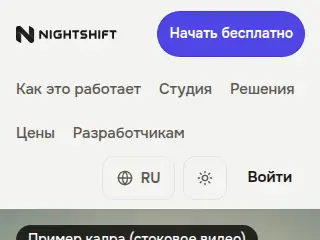
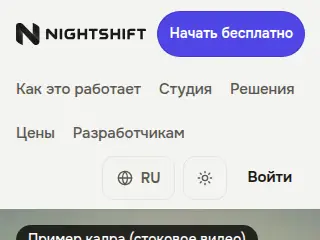
Public header: wordmark sizes without the menu button's room; drop the dead sticky-bar rule
- The phone wordmark formulas reserved 44px (plus a gap) for the removed menu button; they now
  leave that room to the lockup, with Start free still on the wordmark's row (the tool checks it).
- Removed html[data-bar="on"] .st-header-tools > .st-key under 1023px (the header is not
  sticky there any more) and fixed the stale comments (menu button, "pricing link is in the menu").

Claude-Session: https://claude.ai/code/session_01U9oHiSfJHWxDDyJSd8fLSk

Changed region(s): [[0.0312, 0.0875, 0.4688, 0.2042]]

diff --git a/command-center/components/site/site.css b/command-center/components/site/site.css
@@ -226,7 +226,7 @@ html:is([lang="ru"], [lang="uz"]) .st-h1 { font-size: clamp(32px, 4.6vw, 52px); 
 .st-key:focus-visible { box-shadow: 0 0 0 2px var(--st-focus-gap); }
 .st-key svg { width: 18px; height: 18px; flex-shrink: 0; }
 .st-key[data-size="sm"] { min-height: 44px; padding: 0 16px; font-size: 16px; }
-/* A phone's header holds the wordmark, the one button and the menu on one line
+/* A phone's header holds the wordmark and the one button on one line
    even when the button's words are long (Russian: "Начать бесплатно" at 360px);
    the lockup itself steps down below 380px (further down in this file). */
 @media (max-width: 420px) {
@@ -304,8 +304,8 @@ html:is([lang="ru"], [lang="uz"]) .st-h1 { font-size: clamp(32px, 4.6vw, 52px); 
 /* The first row is the bar's height whether or not a second row follows. */
 .st-header-row > .st-brand { min-height: 64px; }
 /* The lockup is wider than the old tile and condensed text, so on a phone it takes what the
-   header leaves it. The limit is Russian's call to action ("Начать бесплатно") and the menu
-   button, which set the room beside the lockup: --wm-h is the width left over divided by the
+   header leaves it. The limit is Russian's call to action ("Начать бесплатно"), which sets the
+   room beside the lockup: --wm-h is the width left over divided by the
    lockup's 5.91 aspect, in a few ranges because the call to action's size and the header's gaps
    step at 420, 400, 380 and 360px. From 485px wide the full 36px fits in every language. From
    1024 to 1279px the nav and tools leave the lockup its old 148px (25px high). */
@@ -313,19 +313,19 @@ html:is([lang="ru"], [lang="uz"]) .st-h1 { font-size: clamp(32px, 4.6vw, 52px); 
   .st-brand { --wm-h: 25px; }
 }
 @media (max-width: 484px) {
-  .st-brand { --wm-h: clamp(17px, calc((100vw - 272px) / 5.91), 36px); }
+  .st-brand { --wm-h: clamp(17px, calc((100vw - 222px) / 5.91), 36px); }
 }
 @media (max-width: 420px) {
-  .st-brand { --wm-h: clamp(17px, calc((100vw - 254px) / 5.91), 36px); }
+  .st-brand { --wm-h: clamp(17px, calc((100vw - 204px) / 5.91), 36px); }
 }
 @media (max-width: 399px) {
-  .st-brand { --wm-h: clamp(17px, calc((100vw - 246px) / 5.91), 36px); }
+  .st-brand { --wm-h: clamp(17px, calc((100vw - 196px) / 5.91), 36px); }
 }
 @media (max-width: 379px) {
-  .st-brand { --wm-h: clamp(17px, calc((100vw - 242px) / 5.91), 36px); }
+  .st-brand { --wm-h: clamp(17px, calc((100vw - 192px) / 5.91), 36px); }
 }
 @media (max-width: 359px) {
-  .st-brand { --wm-h: clamp(17px, calc((100vw - 240px) / 5.91), 36px); }
+  .st-brand { --wm-h: clamp(17px, calc((100vw - 190px) / 5.91), 36px); }
 }
 @media (max-width: 379px) {
   .st-header-row { gap: 8px; }

diff --git a/command-center/components/site/site-next.css b/command-center/components/site/site-next.css
@@ -1019,7 +1019,7 @@ html:is([lang="ru"], [lang="uz"]) .nx-lit .st-hero .st-h1-page { font-size: clam
   html[data-motion="paused"] .nx-chat .nx-dot, html[data-motion="paused"] .nx-chat .nx-chat-key { animation: none !important; }
 }
 .nx-typed { display: inline; }
-/* A phone's first screen: the headline, the button and the whole of the chat card's picture. The pricing link is in the menu and in the price block. */
+/* A phone's first screen: the headline, the button and the whole of the chat card's picture. The pricing link is in the header's links and in the price block. */
 @media (max-width: 639px) {
   .nx-hero-copy .nx-actions .nx-link { display: none; }
   .nx-hero-copy .nx-actions { margin-top: 18px; }
@@ -1031,9 +1031,8 @@ html:is([lang="ru"], [lang="uz"]) .nx-lit .st-hero .st-h1-page { font-size: clam
 /* Edge fades say there is more: the right one until the end, the left one once scrolled. A chevron in the right fade is the hint to swipe; it goes with the first scroll. */
 @media (prefers-reduced-motion: no-preference) {
 }
-/* One Start free at a time: the sticky bar is for phones and tablets, and while it shows the header's button steps aside (hidden, not removed: removing it moved the header's tools and counted as a layout shift every time the bar came and went). */
+/* One Start free at a time: the sticky bar is for phones and tablets, where the header is not sticky. */
 @media (min-width: 1024px) { .nx-bar { display: none; } }
-@media (max-width: 1023px) { html[data-bar="on"] .st-header-tools > .st-key { visibility: hidden; } }
 /* The plan cards fill their rows: each card's lines spread over its height, and the picture card's picture takes what is left. */
 @media (min-width: 860px) {
   .nx-try-card { display: flex; flex-direction: column; }

diff --git a/command-center/tests/site-engage-5.test.tsx b/command-center/tests/site-engage-5.test.tsx
@@ -317,13 +317,13 @@ describe("the capability wall (round 8): eight stock photographs, one per tool",
 });
 
 describe("one Start free at a time (round 5)", () => {
-  it("tells the page while the sticky bar is up, so the header's button steps aside on a phone, and the bar is not drawn from 1024 px", () => {
+  it("tells the page while the sticky bar is up, and the bar is not drawn from 1024 px (the header is not sticky below it, so its button no longer steps aside)", () => {
     const { see } = env();
     document.body.innerHTML = '<div class="nx-hero"><div class="nx-actions"></div></div>';
     render(<StickyCta label="l" text="t" cta="c" dismiss="d" />);
     expect(document.documentElement.getAttribute("data-bar")).toBe("off");
     expect(css).toMatch(/@media \(min-width: 1024px\) \{ \.nx-bar \{ display: none; \} \}/);
-    expect(css).toMatch(/@media \(max-width: 1023px\) \{ html\[data-bar="on"\] \.st-header-tools > \.st-key \{ visibility: hidden; \} \}/);
+    expect(css).not.toMatch(/html\[data-bar="on"\] \.st-header-tools/);
     void see;
     cleanup();
     expect(document.documentElement.hasAttribute("data-bar")).toBe(false);
